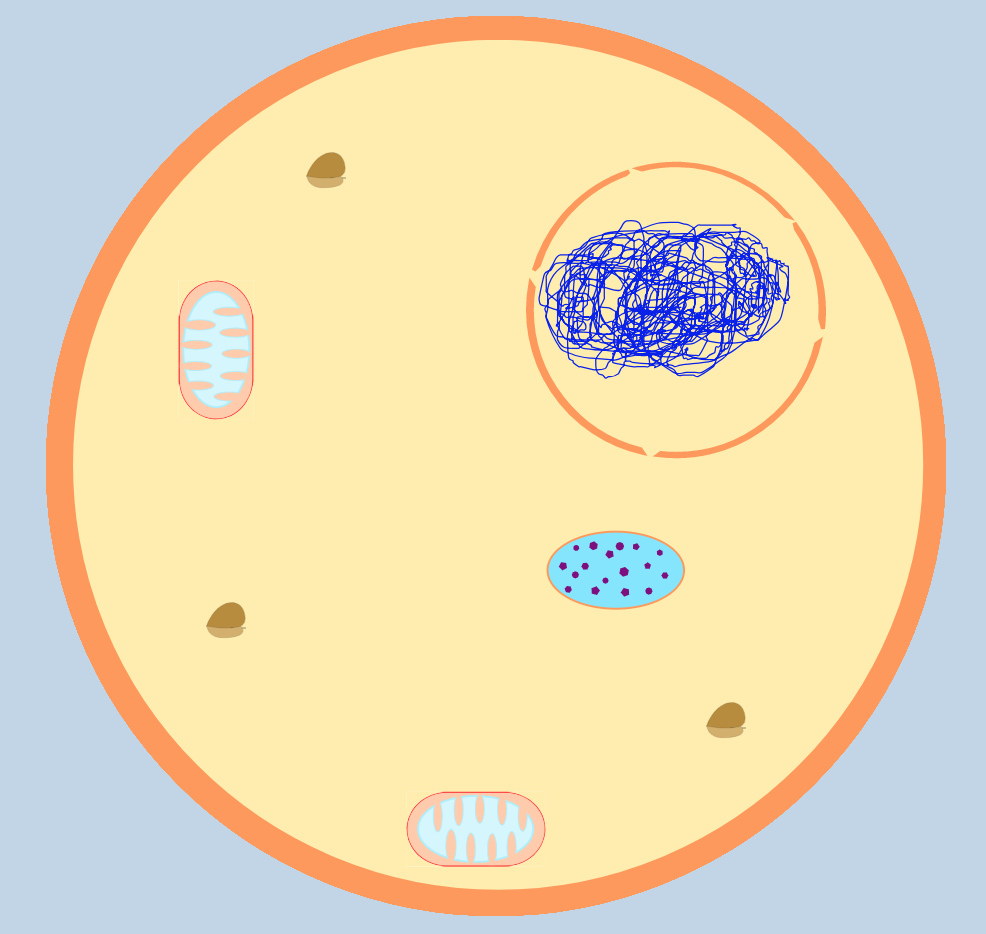
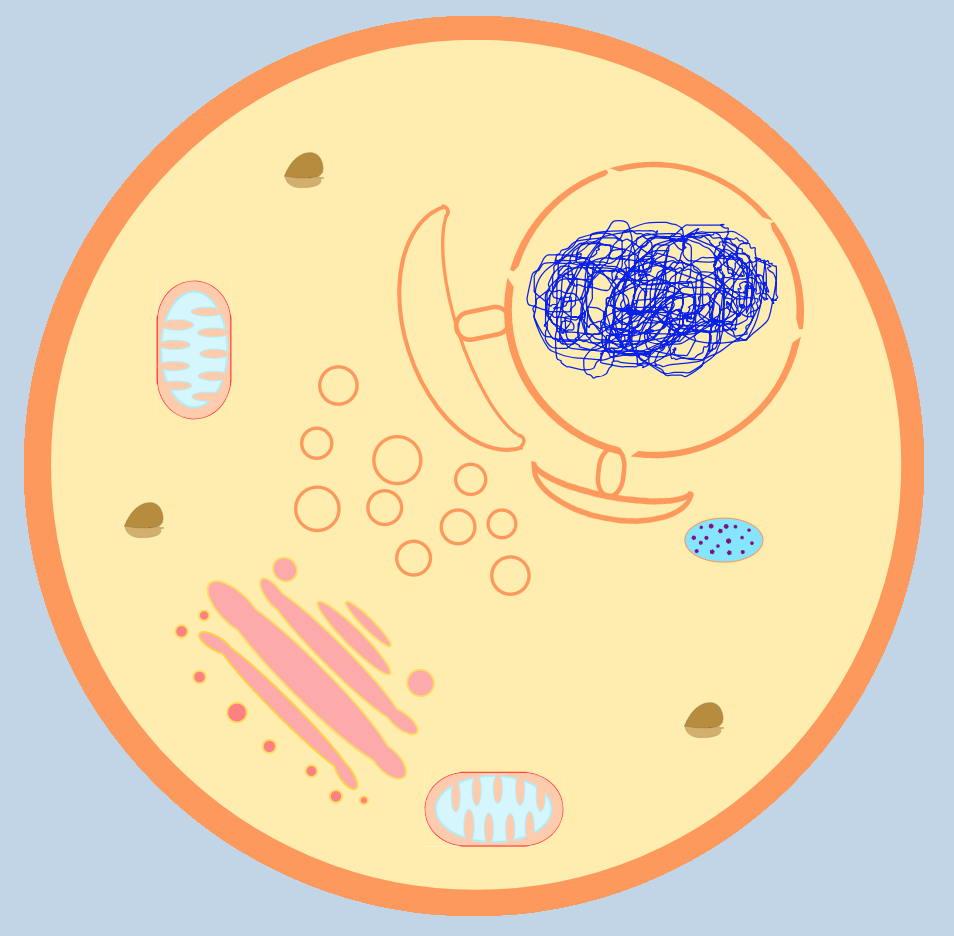
index and ER  updates

diff --git a/animal.html b/animal.html
@@ -31,9 +31,9 @@
 
 	<img style="position:absolute; top:300px; left:700px" border="0" onmouseenter="lysosomeZoom()" onmouseleave="normalImg()" src="IconLibrary/lysosome.svg" alt="Lysosome" width="40" height="40" transform="rotate(90)">
 
-	<img style="position:absolute; top:150px; left:460px" onmouseenter="ERZoom()" onmouseleave="normalImg()" border="0" src="IconLibrary/ER.svg" alt="ER" width="200" height="200">
+	<img style="position:absolute; top:150px; left:505px" onmouseenter="ERZoom()" onmouseleave="normalImg()" border="0" src="IconLibrary/ER.svg" alt="ER" width="200" height="200">
 
-	<div id="rotation"><img style="position:absolute; top:300px; left:730px" onmouseenter="GolgiZoom()" onmouseleave="normalImg()" border="0" src="IconLibrary/GolgiApparatus.svg" alt="Golgi" width="140" height="140"></div>
+	<div id="rotation"><img style="position:absolute; top:260px; left:730px" onmouseenter="GolgiZoom()" onmouseleave="normalImg()" border="0" src="IconLibrary/GolgiApparatus.svg" alt="Golgi" width="140" height="140"></div>
 
 	<svg height="1000" width="1000">
   	<circle cx="150" cy="450" r="125" stroke="black" stroke-width="1" fill=rgb(193,213,231) />
@@ -67,9 +67,9 @@
 
 		document.write("<img style=\"position:absolute; top:300px; left:700px\" border=\"0\" onmouseenter=\"lysosomeZoom()\" onmouseleave=\"normalImg()\" src=\"IconLibrary/lysosome.svg\" alt=\"Lysosome\" width=\"40\" height=\"40\" transform=\"rotate(90)\">");
 
-		document.write("<img style=\"position:absolute; top:150px; left:460px\" onmouseenter=\"ERZoom()\" onmouseleave=\"normalImg()\" border=\"0\" src=\"IconLibrary/ER.svg\" alt=\"ER\" width=\"200\" height=\"200\">");
+		document.write("<img style=\"position:absolute; top:150px; left:505px\" onmouseenter=\"ERZoom()\" onmouseleave=\"normalImg()\" border=\"0\" src=\"IconLibrary/ER.svg\" alt=\"ER\" width=\"200\" height=\"200\">");
 
-		document.write("<div id=\"rotation\"><img style=\"position:absolute; top:300px; left:730px\" onmouseenter=\"GolgiZoom()\" onmouseleave=\"normalImg()\" border=\"0\" src=\"IconLibrary/GolgiApparatus.svg\" alt=\"Golgi\" width=\"140\" height=\"140\"></div>");
+		document.write("<div id=\"rotation\"><img style=\"position:absolute; top:260px; left:730px\" onmouseenter=\"GolgiZoom()\" onmouseleave=\"normalImg()\" border=\"0\" src=\"IconLibrary/GolgiApparatus.svg\" alt=\"Golgi\" width=\"140\" height=\"140\"></div>");
 	}
 	
 	function cellMembrane() {

diff --git a/main.css b/main.css
@@ -1,6 +1,6 @@
 body{
   background-color: rgb(193,213,231);
-  font-family: "Century Gothic", CenturyGothic, AppleGothic, sans-serif;
+  font-family: "Times New Roman", Times, serif;
 }
 
 h1{
@@ -15,6 +15,7 @@ h3{
 
 a:link{
 	color: blue;
+	font-family: "Times New Roman", Times, serif;
 	text-decoration: none;
 }
 
@@ -43,7 +44,7 @@ a:hover{
 }
 
 #aLink{
-	position:absolute; top:510px; left:695px;
+	position:absolute; top:520px; left:690px;
 	font-family: "Gill Sans", "Gill Sans MT", Calibri, sans-serif;
 	font-size: 25px;
 }

diff --git a/index.html b/index.html
@@ -14,7 +14,7 @@
 	<div id = "bImage"> <img src="bacterialCell.png" alt="Bacterial Cell" width="400" height="200"> </div>
 	<div id = "bLink"> <a href="bacteria.html">Bacterial Cell</a> </div>
 
-	<div id = "aImage"> <img src="animalCell.png" alt="Animal Cell" width="325" height="300"> </div>
+	<div id = "aImage"> <img src="animalCell.png" alt="Animal Cell" width="325" height="325"> </div>
 	<div id = "aLink"> <a href="animal.html">Animal Cell</a> </div>
 
 </body>
